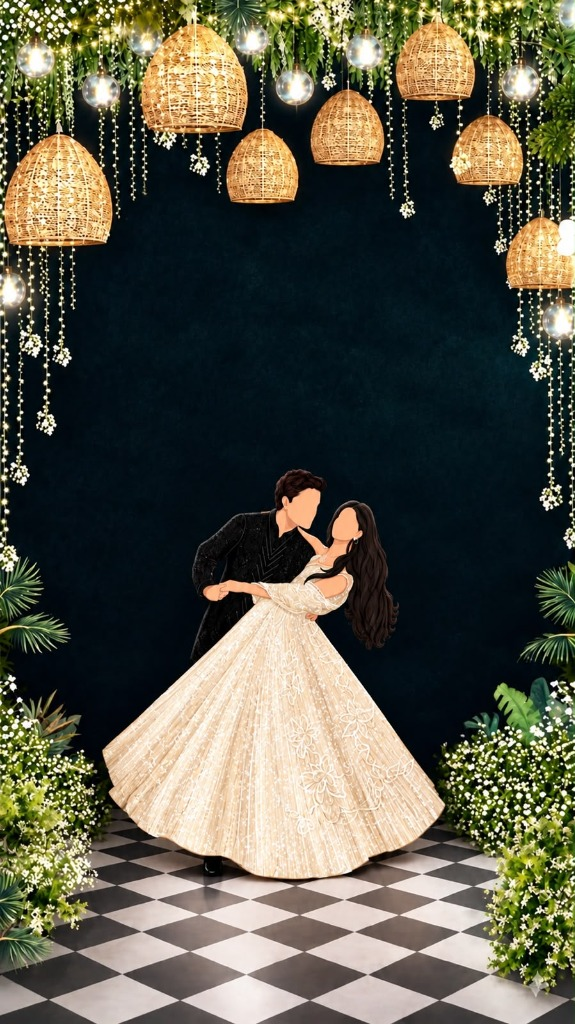
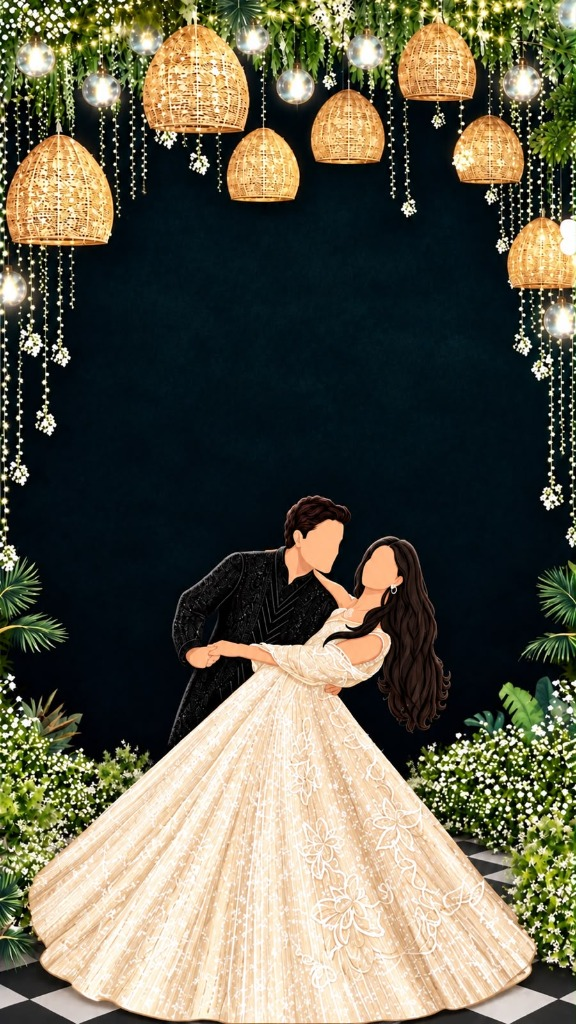
Update reception background image and align content box

diff --git a/src/data/weddingData.ts b/src/data/weddingData.ts
@@ -233,7 +233,7 @@ export const defaultWeddingData: WeddingData = {
       mapUrl: 'https://share.google/O2Z9t337pE3JohHuU',
       iconType: 'reception',
       bgImage: './backgrounds/event-reception.jpg',
-      contentTopClass: 'top-[23%]',
+      contentTopClass: 'top-[24%]',
     },
   ],
   groomSideSchedule: [
